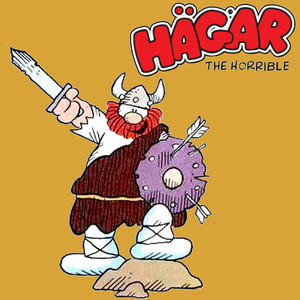
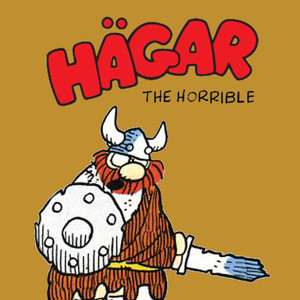
Update cover of Hagar The Horrible comic
http://www.lightningpoker.net/images/slots/hagar/logo_hagar.jpg
http://e.standard.net/sites/default/files/stories/2013/10/07/186676-223957.jpg

diff --git a/src/Comics/HagarTheHorrible.cpp b/src/Comics/HagarTheHorrible.cpp
@@ -16,7 +16,7 @@ HagarTheHorrible::HagarTheHorrible(QObject *parent) :
 {
     m_info.id             = QString("hagarthehorrible");
     m_info.name           = QString("Hägar the Horrible");
-    m_info.color          = QColor(216, 164, 55);
+    m_info.color          = QColor(192, 143, 48);
     m_info.authors        = QStringList() << "Dik Browne" << "Chris Browne";
     m_info.homepage       = QUrl("http://hagarthehorrible.com/");
     m_info.country        = QLocale::UnitedStates;
